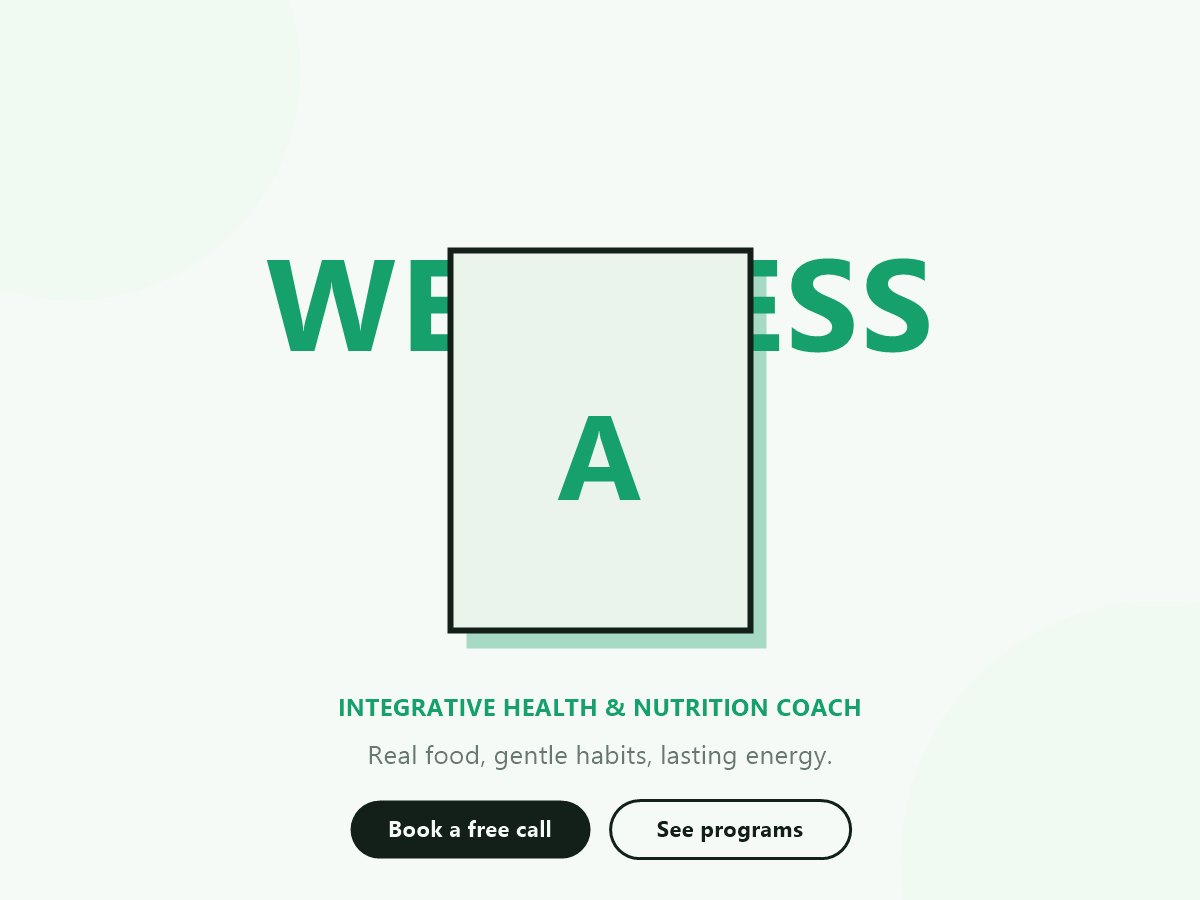
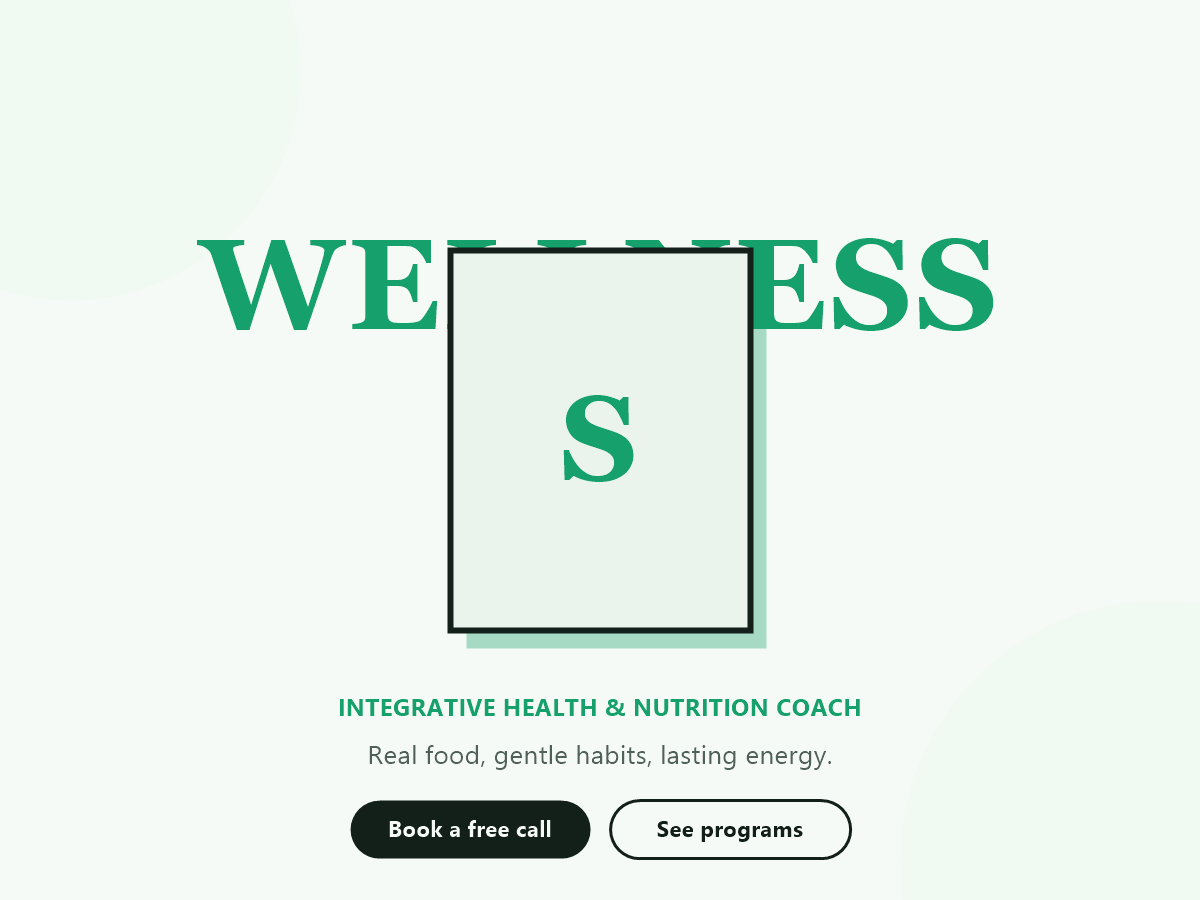
chore: set demo brand to Shivani Kamra Wellness (v1.3.1)
Update demo defaults (brand name, email, copyright, testimonial) and the theme
screenshot to "Shivani Kamra". Brand name remains editable in the Customizer.

diff --git a/lumen-wellness/style.css b/lumen-wellness/style.css
@@ -4,7 +4,7 @@ Theme URI: https://github.com/nileshvermaa/wordpress-template
 Author: Nilesh Verma
 Author URI: https://github.com/nileshvermaa
 Description: A poster-style one-page theme for health, wellness and coaching brands. Editable brand name, colors, hero photo and contact details from the WordPress Customizer. No page builder required.
-Version: 1.3.0
+Version: 1.3.1
 Requires at least: 6.0
 Tested up to: 6.7
 Requires PHP: 7.4

diff --git a/lumen-wellness/inc/template-data.php b/lumen-wellness/inc/template-data.php
@@ -36,13 +36,13 @@ function lumen_opt( $key, $default = '' ) {
  */
 function lumen_defaults() {
 	$defaults = array(
-		'brand_name'    => 'Aanya Kapoor',
+		'brand_name'    => 'Shivani Kamra',
 		'brand_accent'  => 'Wellness',
 		'hero_word'     => 'WELLNESS',
 		'role'          => 'Integrative Health & Nutrition Coach',
 		'tagline'       => 'Real food, gentle habits, lasting energy — health that finally fits your life.',
 		'location'      => 'Bengaluru, India',
-		'email'         => '[email redacted]',
+		'email'         => '[email redacted]',
 		'phone'         => '[phone redacted]',
 		'availability'  => 'Now accepting new 1:1 clients',
 		'booking_url'   => '#contact',
@@ -61,7 +61,7 @@ function lumen_defaults() {
 		'stat2_label'   => 'One-to-one coaching journeys',
 		'stat3_value'   => '4',
 		'stat3_label'   => 'Evidence-based certifications',
-		'copyright'     => 'Aanya Kapoor Wellness',
+		'copyright'     => 'Shivani Kamra Wellness',
 	);
 
 	/**
@@ -252,7 +252,7 @@ function lumen_testimonials() {
 			'meta'  => 'Lost 9kg · kept it off 1 year',
 		),
 		array(
-			'quote' => '"Aanya is the first coach who treated me like a person, not a meal plan. The check-ins kept me honest and the science kept me confident."',
+			'quote' => '"Shivani is the first coach who treated me like a person, not a meal plan. The check-ins kept me honest and the science kept me confident."',
 			'name'  => 'Rahul T.',
 			'meta'  => 'Reversed pre-diabetes markers',
 		),

diff --git a/lumen-wellness/functions.php b/lumen-wellness/functions.php
@@ -9,7 +9,7 @@ if ( ! defined( 'ABSPATH' ) ) {
 	exit;
 }
 
-define( 'LUMEN_VERSION', '1.3.0' );
+define( 'LUMEN_VERSION', '1.3.1' );
 
 require_once get_template_directory() . '/inc/template-data.php';
 require_once get_template_directory() . '/inc/customizer.php';

diff --git a/lumen-wellness/inc/customizer.php b/lumen-wellness/inc/customizer.php
@@ -204,7 +204,7 @@ function lumen_customize_register( $wp_customize ) {
 
 	/* ── Section: Analytics ────────────────────────────────── */
 	$wp_customize->add_section( 'lumen_analytics', array( 'title' => __( 'Analytics', 'lumen-wellness' ), 'panel' => 'lumen_panel' ) );
-	$add( 'lumen_plausible_domain', array( 'label' => 'Plausible domain (optional)', 'section' => 'lumen_analytics', 'description' => 'Privacy-friendly, cookieless. Enter your site domain, e.g. aanyakapoor.com.' ) );
+	$add( 'lumen_plausible_domain', array( 'label' => 'Plausible domain (optional)', 'section' => 'lumen_analytics', 'description' => 'Privacy-friendly, cookieless. Enter your site domain, e.g. shivanikamra.com.' ) );
 	$add( 'lumen_ga4_id', array( 'label' => 'Google Analytics 4 ID (optional)', 'section' => 'lumen_analytics', 'description' => 'e.g. G-XXXXXXXXXX. Leave blank if using Plausible only.' ) );
 
 	/* ── Section: Social links ─────────────────────────────── */